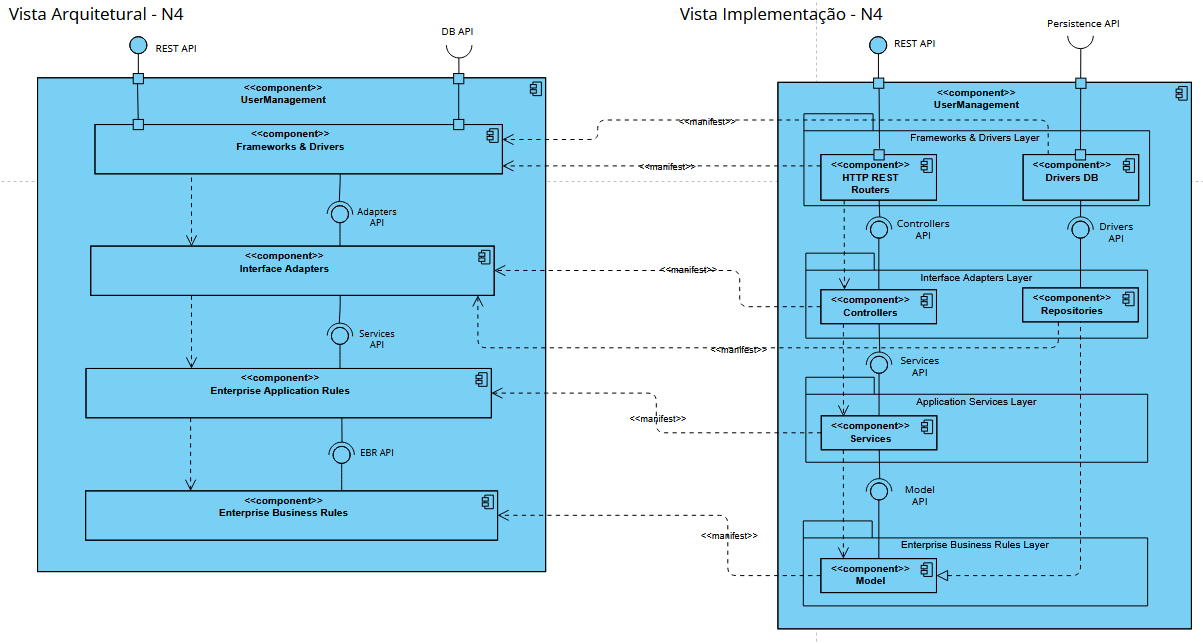
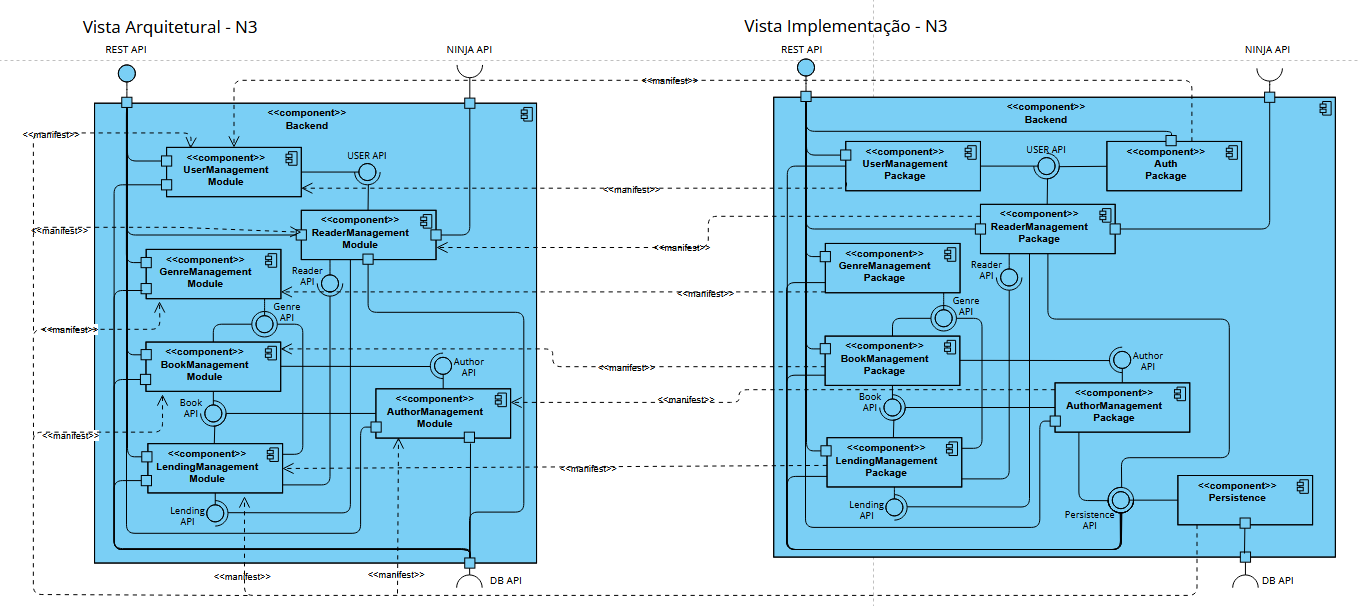
docs: manifestation complete (VI to VA) #10

diff --git a/Docs/ARQSOFT/arqsoft-documentation.md b/Docs/ARQSOFT/arqsoft-documentation.md
@@ -154,7 +154,7 @@ O mapeamento de Nível 3 correlaciona os módulos de domínio funcionais (lógic
 
 O mapeamento de Nível 4 correlaciona as 4 camadas concêntricas de *Clean Architecture* com os pacotes Java reais do módulo.
 
-![VI_to_VL.png](System-as-is/VI_to_VL.png)
+![VA_to_VI_N4.png](System-as-is/Manifestação/VA_to_VI_N4.png)
 
 * `Frameworks & Drivers` $\leftarrow$ Configuração Spring Boot, `SecurityConfig`, `JpaConfig` e driver H2.
 * `Interface Adapters` $\leftarrow$ Pacotes `api` e `infrastructure.repositories.impl`.
